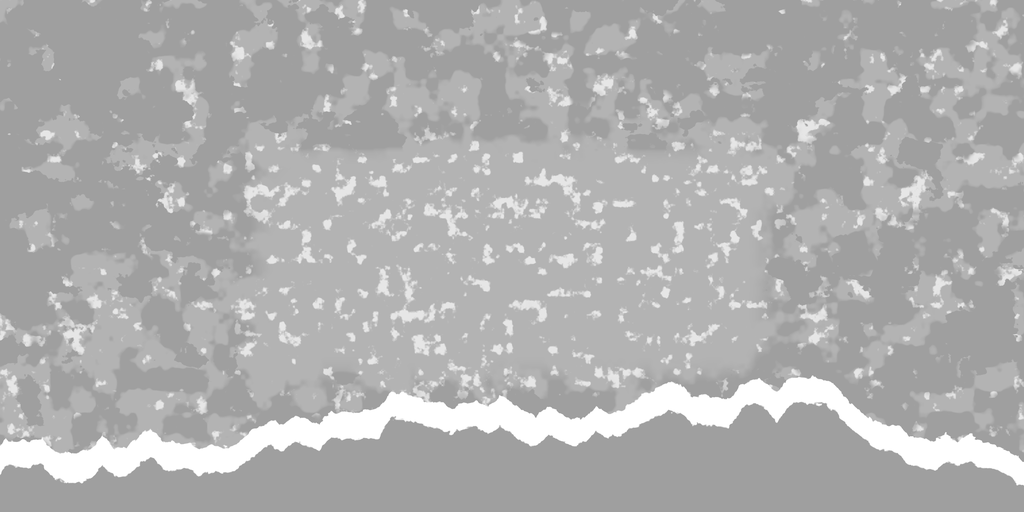
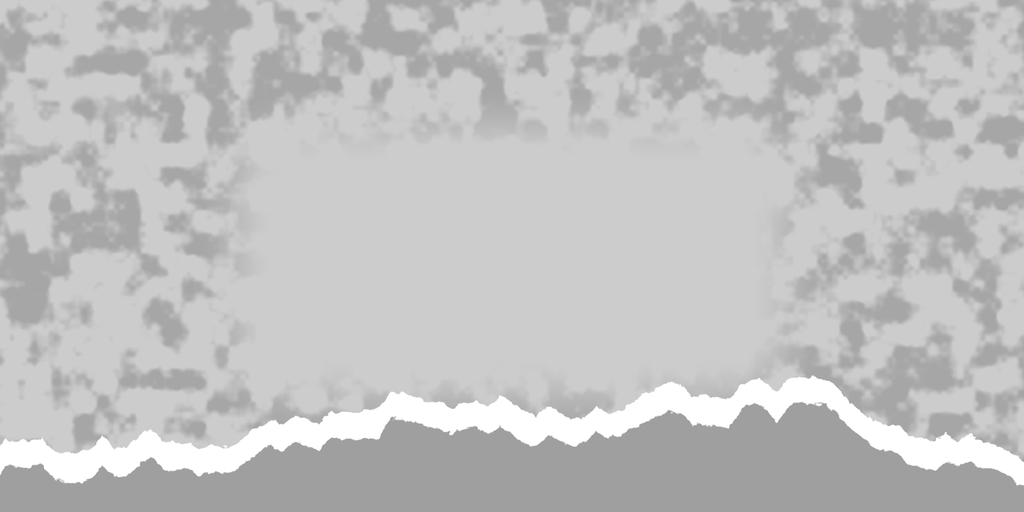
Cliffs redone in the generated-art style: generated sea-worn rock shelf (tide pools, kelp, barnacles and salt dropped: too splotchy), the far sea and stacks fading to black at the top, edge fade added, sea stacks textured from the same rock and lit at their feet

diff --git a/Tools/Boards/recipes/cliffs.py b/Tools/Boards/recipes/cliffs.py
@@ -1,7 +1,9 @@
-"""The Sirens' rocks: a dark wet shelf of sea-worn rock above the surf, tide pools that hold the light, barnacles,
-limpets and kelp, sea foam caught in the hollows, and a jagged cliff edge dropping to the sea, rocks and stacks in the surf below. Lanes: flat ledges
-of weathered rock crusted with salt."""
+"""The Sirens' rocks: a dark shelf of sea-worn rock (a generated tile, calm under the cards) ending in a jagged cliff
+edge that drops to the surf, rocks and stacks in the sea below. Back edge (3D): sea stacks rising out of the surf
+and the next headlands at the far corners, in the same rock, lit only at their feet. Lanes: the same rock, calmer.
+(Tide pools, kelp, barnacles and salt crust were dropped: they made the shelf splotchy.)"""
 from boardkit import *  # noqa
+from genkit import tile, two_scale, norm_lum, tile_height, tile_lanes, falloff, edge_fade
 
 NAME = 'Cliffs'
 
@@ -27,14 +29,13 @@ def paint(preview=False):
     ad = arena_dist(X, Y)
     margin = smoothstep(1, 12, ad)
 
+    shelf = tile('Cliffs_RockTile.png')
     big = n.fbm(X, Y, 12, 5, offset=1)
-    mid = n.fbm(X, Y, 3, 4, offset=2)
-    grain = n.fbm(X, Y, 0.4, 5, offset=3)
-    strata = n.ridged(X * 0.6, Y * 1.6, 5, 3, offset=4)
-    hgt = (big * 0.8 + mid * 0.3 + grain * 0.05 + strata * 0.15).astype(F32)
-    rock = lerp(C(0.05, 0.06, 0.065), C(0.17, 0.18, 0.18), np.clip(big * 0.4 + mid * 0.35 + grain * 0.25, 0, 1))
-    alb = rock + ((brush(n, X, Y) - 0.5) * 0.03)[..., None]
-    alb = lerp(alb, C(0.22, 0.22, 0.2), smoothstep(0.75, 0.9, strata) * 0.4)
+    alb = norm_lum(two_scale(n, shelf, X, Y, 11.0), 0.12)
+    calm = smoothstep(5.0, -1.0, ad) * 0.5
+    alb = lerp(alb, np.broadcast_to(alb.reshape(-1, 3).mean(0), alb.shape), calm)
+    alb = alb * (0.85 + 0.3 * big)[..., None]
+    hgt = (big * 0.6 + tile_height(alb, g, 0.15) * (1 - calm)).astype(F32)
 
     # the cliff edge: an angular, broken line (straight runs between sharp breaks, a few deep coves), then the cliff
     # face falling away (seen from above: a band of dark, vertically fractured rock), rocks and stacks in the surf,
@@ -52,7 +53,6 @@ def paint(preview=False):
     facecol = lerp(C(0.05, 0.055, 0.06), C(0.13, 0.135, 0.135), fract)
     facecol = facecol * (1 - np.clip(d / np.maximum(drop, 0.1), 0, 1) * 0.75)[..., None]   # darker toward the water
     lip = (1 - smoothstep(0.0, 0.35, np.abs(d))) * (1 - sea)
-    rock_h = hgt.copy()
     alb = lerp(alb, C(0.26, 0.26, 0.24), lip * 0.5)                     # sunlit broken lip
     alb = lerp(alb, facecol, face)
 
@@ -82,70 +82,20 @@ def paint(preview=False):
            + stm * 1.2).astype(F32)
     land = (1 - sea) * (1 - face)
 
-    # tide pools in the hollows: deep green-blue, shining
-    low = 1 - norm01(rock_h)
-    pool = smoothstep(0.7, 0.76, low + (n.fbm(X, Y, 2, 3, offset=9) - 0.5) * 0.12) * smoothstep(3, 7, ad) * land
-    poolcol = lerp(C(0.04, 0.1, 0.1), C(0.08, 0.17, 0.16), n.fbm(X, Y, 1.0, 3, offset=10))
-    alb = lerp(alb, poolcol, pool * 0.85)
-    pool_rim = np.clip(blurf(pool, 0.3, g) * 1.6 - pool, 0, 1)
-    alb = lerp(alb, C(0.2, 0.22, 0.2), pool_rim * 0.35)
-    hgt = (hgt * (1 - pool) + pool * float(np.percentile(hgt, 25))).astype(F32)
-
-    # kelp strands and wrack, mostly near the water and pools
-    kelp = Layer(g)
-    for x, y in scatter_points(rng, 70, (-66, 66, -23, 43), margin_keep(3.0), 2.5):
-        a = rng.uniform(0, 6.28)
-        for _ in range(rng.integers(2, 6)):
-            pts = [(x, y)]
-            ka = a + rng.normal(0, 0.5)
-            px, py = x, y
-            for k in range(rng.integers(8, 20)):
-                ka += rng.normal(0, 0.25)
-                px += math.cos(ka) * 0.3
-                py += math.sin(ka) * 0.3
-                pts.append((px, py))
-            taper(kelp, pts, rng.uniform(0.18, 0.32), 0.05)
-    km = kelp.read() * land
-    kcol = lerp(C(0.09, 0.08, 0.03), C(0.2, 0.18, 0.07), n.fbm(X, Y, 0.5, 3, offset=11))
-    alb, hgt = apply_object(g, alb, hgt, km, km * 0.05, kcol, shadow=0.4, shadow_blur=0.12)
-
-    # barnacles and limpets in colonies
-    bar = Layer(g)
-    for x, y in scatter_points(rng, 60, (-66, 66, -23, 43), margin_keep(2.0), 2.5):
-        for _ in range(rng.integers(10, 30)):
-            r = rng.uniform(0.05, 0.12)
-            bar.ellipse(x + rng.normal(0, 0.8), y + rng.normal(0, 0.8), r, r)
-    bm = bar.read() * land * (1 - pool)
-    bdome = np.clip(blurf(bm, 0.03, g) * 1.6, 0, 1) * bm
-    bcol = lerp(C(0.15, 0.15, 0.13), C(0.3, 0.29, 0.26), bdome)
-    alb, hgt = apply_object(g, alb, hgt, bm, bdome * 0.08, bcol, shadow=0.45, shadow_blur=0.05)
-
-    # salt crust high and dry, near the arena
-    salt = smoothstep(0.62, 0.75, n.fbm(X, Y, 1.5, 4, offset=12)) * smoothstep(0.5, 0.8, norm01(hgt)) * land
-    alb = lerp(alb, C(0.35, 0.35, 0.33), salt * 0.35)
-
     cav = cavity(hgt, g, 0.6, 2.0)
     alb = desaturate(alb * (1 - cav[..., None] * 0.45 * (1 - sea)[..., None]), 0.05)
+    alb = edge_fade(X, Y, alb)
     wet = smoothstep(0.4, 0.7, n.fbm(X, Y, 3, 3, offset=13)) * margin
-    smooth = (0.3 + wet * 0.3) * (1 - face) + pool * 0.6 + sea * 0.62 - salt * 0.2
+    smooth = (0.2 + wet * 0.15) * (1 - face) + sea * 0.62
 
     # a faint glimmer on the water (emission) so the sea reads even outside the lights
     emission = C(0.03, 0.07, 0.08) * (sea * (0.4 + 0.6 * swell))[..., None] + C(0.08, 0.1, 0.1) * (foam * sea * 0.5)[..., None]
+    # the far sea sinks into darkness toward the top of the frame (spec: the top fades to black)
+    far = 1 - smoothstep(35.0, 42.0, Y) * 0.92
+    alb = alb * far[..., None]
+    emission = emission * far[..., None]
 
-    # lanes: flat ledges of weathered rock, salt crust, small pools
-    LX, LY = lane.WX, lane.WY
-    lalb, lhgt = lane_base(n, lane, C(0.1, 0.11, 0.11), C(0.19, 0.2, 0.19), offset=990)
-    wear = lane_wear(lane)
-    lstrata = n.ridged(LX * 0.4, LY * 2.0, 4, 3, offset=991)
-    lalb = lerp(lalb, C(0.24, 0.24, 0.22), smoothstep(0.75, 0.9, lstrata) * 0.35)
-    lsalt = smoothstep(0.62, 0.78, n.fbm(LX, LY, 1.2, 4, offset=992))
-    lalb = lerp(lalb, C(0.33, 0.33, 0.31), lsalt * 0.3)
-    lp = smoothstep(0.74, 0.79, n.fbm(LX, LY, 2.0, 4, offset=993)) * (1 - wear * 0.8)
-    lalb = lerp(lalb, C(0.03, 0.07, 0.07), lp * 0.8)
-    lhgt = (lhgt + lstrata * 0.08 - lp * 0.06).astype(F32)
-    lcav = cavity(lhgt, lane, 0.4, 2.0)
-    lalb = desaturate(lalb * (1 - lcav[..., None] * 0.3), 0.05)
-    lsmooth = 0.28 + lp * 0.6 - lsalt * 0.15
+    lalb, lhgt, lsmooth = tile_lanes(n, lane, shelf, size=11.0, mean=0.15, calm=0.55)
 
     finish(os.path.join(OUT, NAME), NAME, g, alb, hgt, smooth, emission, lane, lalb, lhgt, lsmooth, preview=preview)
     back_edge()
@@ -163,7 +113,7 @@ def back_edge():
     edge = lambda x: float(np.interp(x, knots_x, prof))
     rng = np.random.default_rng(199)
     be = BackEdge(NAME)
-    rk = be.material(Material('SeaRock', tex_h=16.0, self_light=0.35))
+    rk = be.material(Material('SeaRock', tex_h=16.0, self_light=0.0))
     for _ in range(26):
         x = rng.uniform(-70, 70)
         y = edge(x) + rng.uniform(4.0, 7.5)
@@ -183,12 +133,12 @@ def back_edge():
                   step=0.6, h_step=0.6, back=3.0)
     be.save(folder)
     c = rk.elev_canvas()
-    alb, hgt, sm = bp.rock(c, n, C(0.04, 0.05, 0.055), C(0.15, 0.16, 0.16), strata=0.5, offset=171)
-    foam = (1 - smoothstep(0.1, 0.6, c.Y)) * smoothstep(0.35, 0.6, n.fbm(c.X, c.Y, 0.5, 3, offset=172))
+    shelf = tile('Cliffs_RockTile.png')
+    alb = norm_lum(lerp(sample_tiled(shelf, c.X, c.Y, 3.0, 0.4), sample_tiled(shelf, c.X + 9.0, c.Y, 2.4, 1.9), 0.5), 0.16)
     wet = 1 - smoothstep(0.4, 2.5, c.Y)
     alb = alb * (1 - wet * 0.35)[..., None]
-    alb = lerp(alb, C(0.5, 0.55, 0.55), foam * 0.8)
-    guano = smoothstep(0.66, 0.8, n.fbm(c.X, c.Y, 0.8, 3, offset=173)) * smoothstep(3.0, 7.0, c.Y)
-    alb = lerp(alb, C(0.4, 0.4, 0.37), guano * 0.5)
-    ta, th, ts = bp.tops(rk, n, C(0.06, 0.07, 0.06), C(0.16, 0.17, 0.15), offset=174)
-    save_material(folder, rk, alb, hgt, sm + wet * 0.4, talb=ta, thgt=th, tsmooth=ts)
+    foam = (1 - smoothstep(0.1, 0.5, c.Y)) * smoothstep(0.35, 0.6, n.fbm(c.X, c.Y, 0.5, 3, offset=172))
+    alb = lerp(alb, C(0.32, 0.35, 0.35), foam * 0.5)
+    hgt = tile_height(alb, c, 0.2)
+    em_k, am = falloff(n, c.X, c.Y, top=5.0, glow=0.5, floor=0.12)
+    save_material(folder, rk, alb * am[..., None], hgt, (0.15 + wet * 0.3).astype(F32), emission=alb * em_k[..., None])
